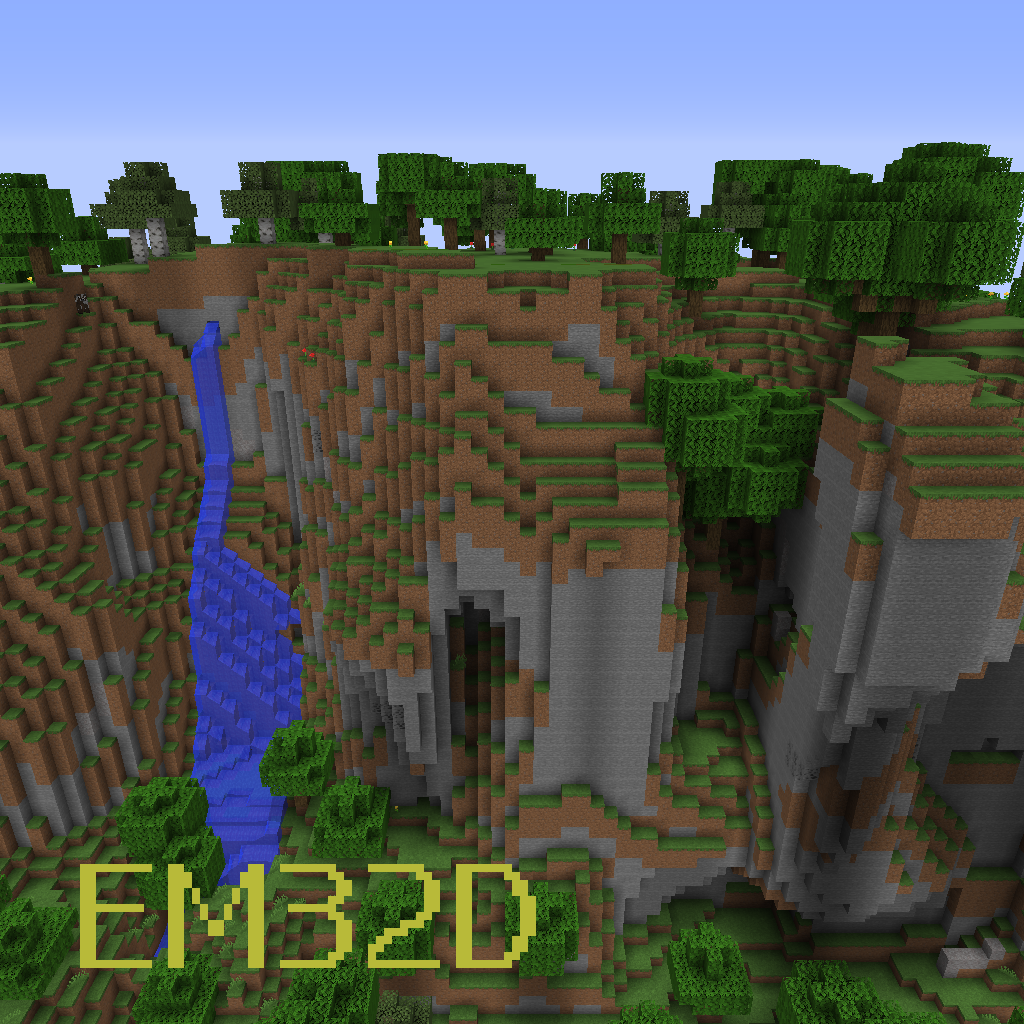
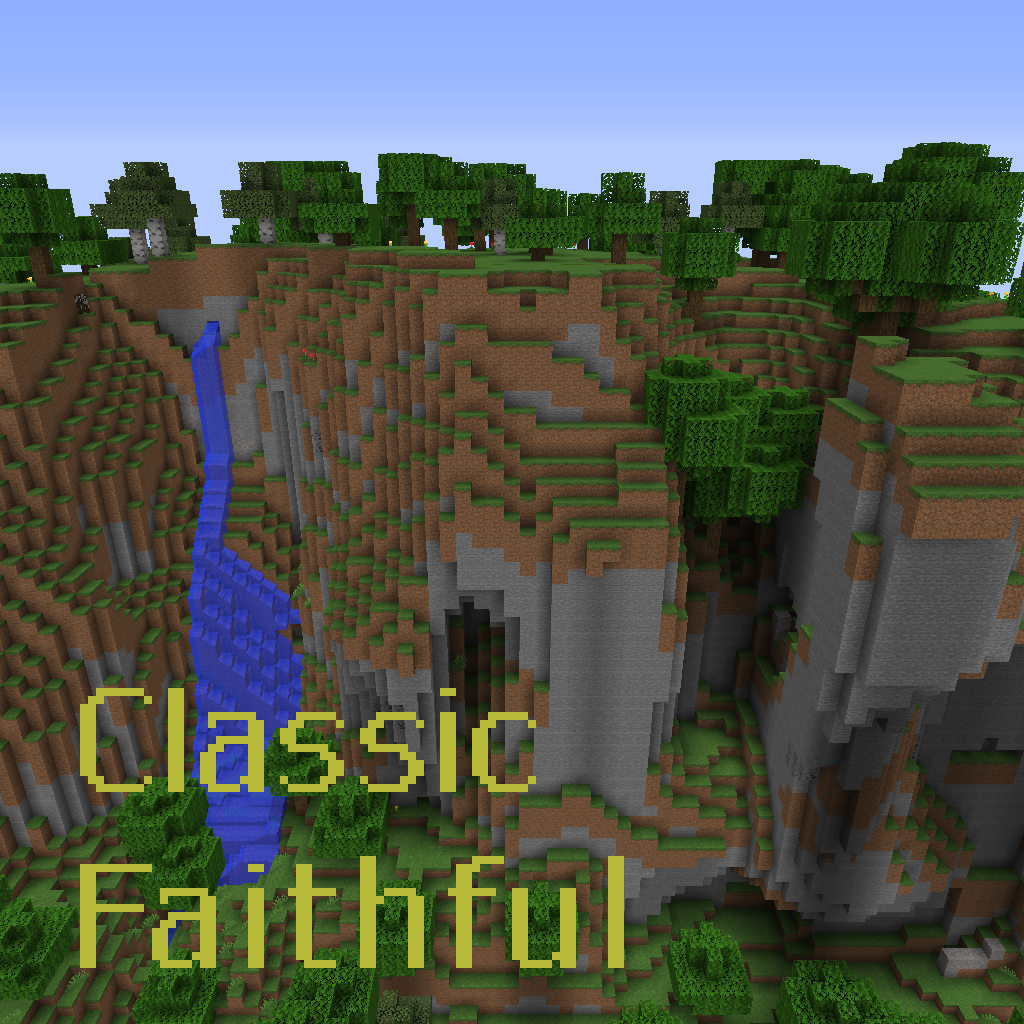
full rebrand poggers

Changed region(s): [[0.0938, 0.8125, 0.5625, 0.9688], [0.0625, 0.6562, 0.5312, 0.7812], [0.5938, 0.8125, 0.625, 0.9688]]

diff --git a/README.md b/README.md
@@ -1,4 +1,4 @@
-# EM32D
-A double resolution texture pack that emulates Vattic’s original faithful style today.
+# Classic Faithful 32x
+A double resolution texture pack that continues Vattic’s classic faithful style today.
 
-<img src="https://cdn.discordapp.com/attachments/814198781301096449/922541950874288159/EM_Banner_Blurred_Text.png" alt="EM32D" align="center" height="256px">
+<img src="https://cdn.discordapp.com/attachments/814212967297318973/925833977477087332/CF_Banner_Blurred.png" alt="CF32X" align="center" height="256px">
